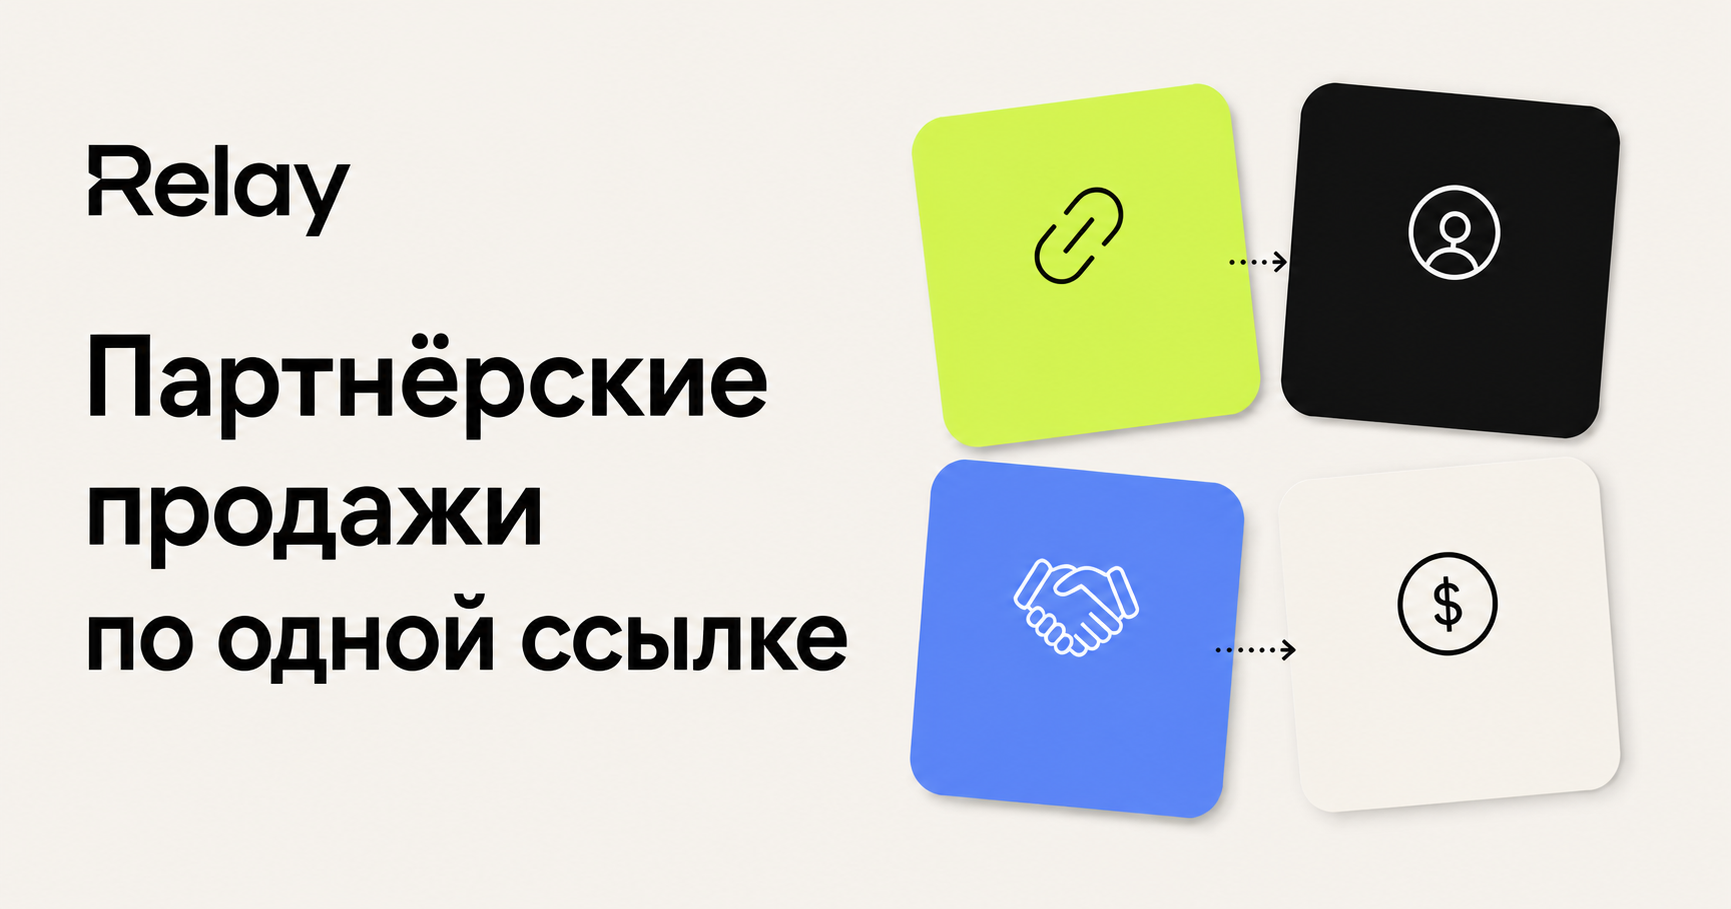
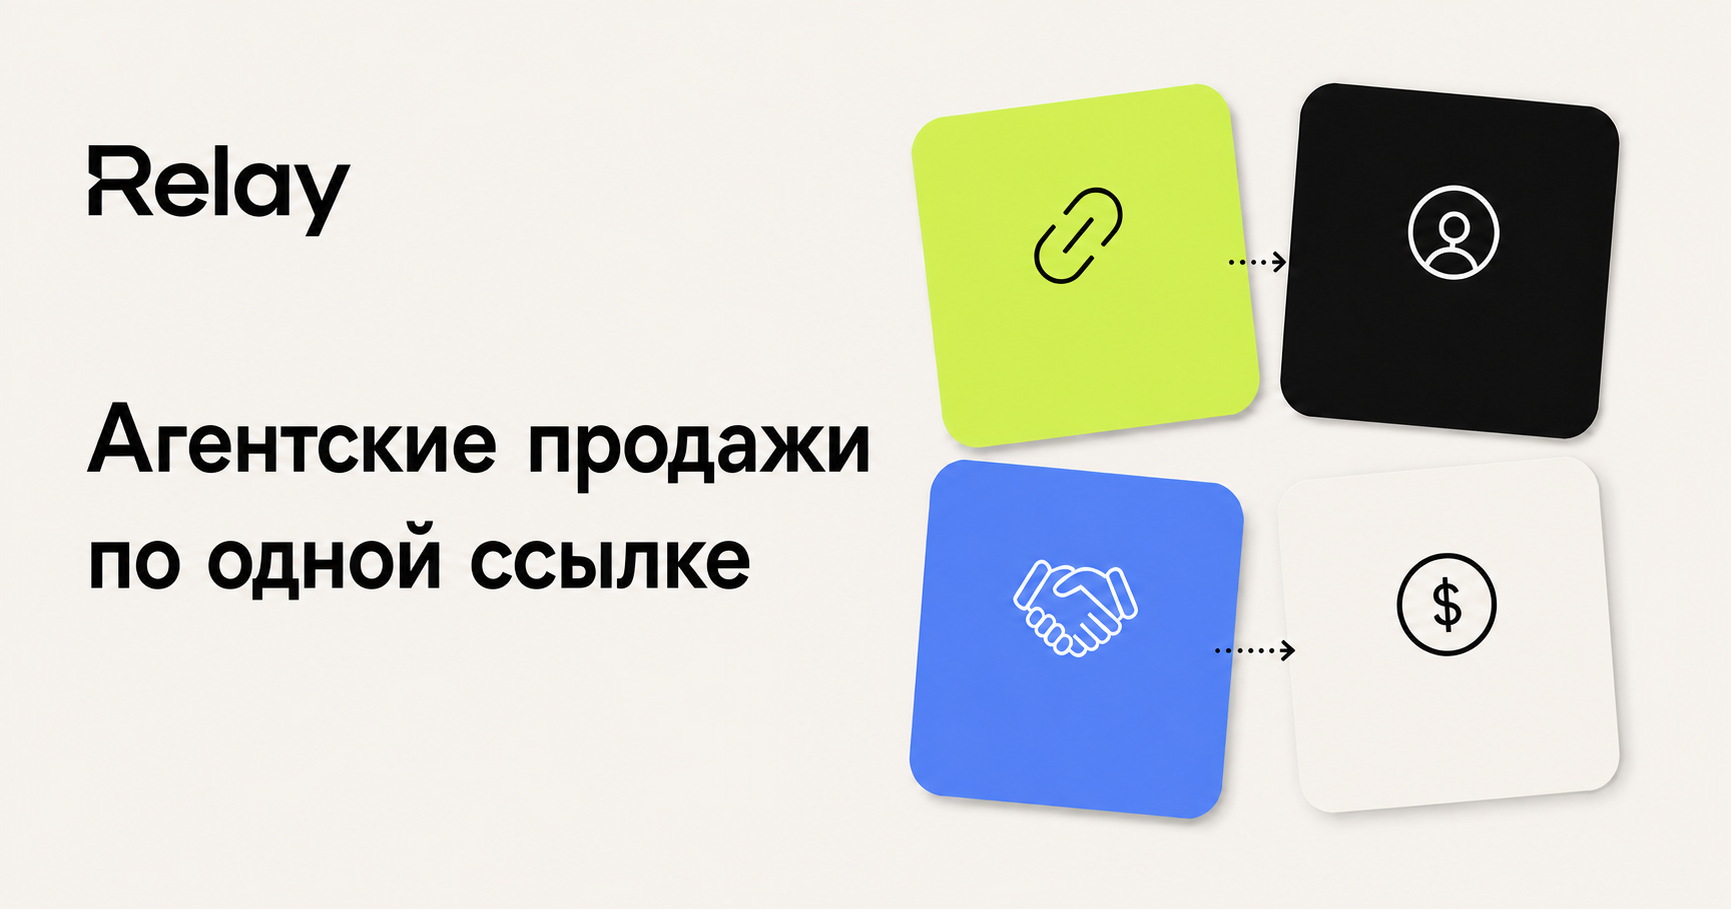
Improve search appearance and indexing

diff --git a/app/layout.tsx b/app/layout.tsx
@@ -1,5 +1,4 @@
 import type { Metadata } from "next";
-import { headers } from "next/headers";
 import { Geist, Geist_Mono } from "next/font/google";
 import "./globals.css";
 import "./landing.css";
@@ -23,43 +22,51 @@ const geistMono = Geist_Mono({
   subsets: ["latin"],
 });
 
-export async function generateMetadata(): Promise<Metadata> {
-  const requestHeaders = await headers();
-  const host = requestHeaders.get("x-forwarded-host") ?? requestHeaders.get("host") ?? "localhost:3000";
-  const protocol = requestHeaders.get("x-forwarded-proto") ?? (host.startsWith("localhost") ? "http" : "https");
-  const origin = `${protocol}://${host}`;
-  const description = "Создавайте агентские программы, запускайте задания и прозрачно работайте с внешними продавцами.";
+const description = "Запускайте агентские программы, приглашайте агентов по одной ссылке и прозрачно ведите рекомендации от передачи до выплаты.";
 
-  return {
-    metadataBase: new URL("https://risestaff.kz"),
-    title: {
-      default: "Relay — агентские продажи по одной ссылке",
-      template: "%s · Relay",
-    },
+export const metadata: Metadata = {
+  metadataBase: new URL("https://risestaff.kz"),
+  applicationName: "Relay",
+  title: {
+    default: "Relay — агентские продажи и реферальные программы",
+    template: "%s · Relay",
+  },
+  description,
+  keywords: ["агентские продажи", "агентская программа", "реферальная программа", "партнёрские продажи", "внешние агенты", "Relay", "RiseStaff"],
+  creator: "Relay",
+  publisher: "Relay",
+  category: "business",
+  robots: {
+    index: true,
+    follow: true,
+    googleBot: { index: true, follow: true, "max-image-preview": "large", "max-snippet": -1, "max-video-preview": -1 },
+  },
+  icons: {
+    icon: [
+      { url: "/icon-192.png", sizes: "192x192", type: "image/png" },
+      { url: "/favicon.svg", sizes: "any", type: "image/svg+xml" },
+    ],
+    shortcut: "/icon-192.png",
+    apple: [{ url: "/apple-touch-icon.png", sizes: "180x180", type: "image/png" }],
+  },
+  manifest: "/manifest.webmanifest",
+  appleWebApp: { capable: true, statusBarStyle: "black-translucent", title: "Relay" },
+  openGraph: {
+    siteName: "Relay",
+    locale: "ru_KZ",
+    title: "Relay — агентские продажи и реферальные программы",
     description,
-    alternates: { canonical: "https://risestaff.kz/" },
-    icons: {
-      icon: [{ url: "/favicon.svg", type: "image/svg+xml" }, { url: "/icon-192.png", sizes: "192x192", type: "image/png" }],
-      shortcut: "/favicon.svg",
-      apple: [{ url: "/apple-touch-icon.png", sizes: "180x180", type: "image/png" }],
-    },
-    manifest: "/manifest.webmanifest",
-    appleWebApp: { capable: true, statusBarStyle: "black-translucent", title: "Relay" },
-    openGraph: {
-      title: "Relay — агентские продажи по одной ссылке",
-      description,
-      type: "website",
-      url: "https://risestaff.kz/",
-      images: [{ url: `${origin}/og.png`, width: 1731, height: 909, alt: "Relay — агентские продажи по одной ссылке" }],
-    },
-    twitter: {
-      card: "summary_large_image",
-      title: "Relay — агентские продажи по одной ссылке",
-      description,
-      images: [`${origin}/og.png`],
-    },
-  };
-}
+    type: "website",
+    url: "https://risestaff.kz/",
+    images: [{ url: "https://risestaff.kz/og.png", width: 1731, height: 909, alt: "Relay — агентские продажи по одной ссылке" }],
+  },
+  twitter: {
+    card: "summary_large_image",
+    title: "Relay — агентские продажи и реферальные программы",
+    description,
+    images: ["https://risestaff.kz/og.png"],
+  },
+};
 
 export default function RootLayout({
   children,

diff --git a/app/page.tsx b/app/page.tsx
@@ -6,8 +6,9 @@ import { MarketingLogo } from "./marketing-logo";
 import { companyUrl } from "../lib/public-origins";
 
 export const metadata: Metadata = {
-  title: "Relay — запустите агентский канал продаж",
-  description: "Создайте программу, пригласите агентов по одной ссылке и прозрачно ведите каждую рекомендацию от передачи до выплаты.",
+  title: { absolute: "Relay — агентские продажи и реферальные программы" },
+  description: "Запустите агентскую программу: создайте задания, пригласите агентов по одной ссылке и отслеживайте каждую рекомендацию до выплаты.",
+  alternates: { canonical: "https://risestaff.kz/" },
 };
 
 export const dynamic = "force-dynamic";
@@ -31,10 +32,25 @@ const faqs = [
 ];
 
 const structuredData = {
-  "@context": "https://schema.org", "@type": "SoftwareApplication", name: "Relay", url: "https://risestaff.kz/",
-  applicationCategory: "BusinessApplication", operatingSystem: "Web",
-  description: "Платформа для запуска и управления агентскими программами по одной ссылке.",
-  featureList: ["Программы и задания для агентов", "Фиксация владельца рекомендации", "Статусы результатов и выплат", "Кабинет агента без установки приложения"],
+  "@context": "https://schema.org",
+  "@graph": [
+    {
+      "@type": "WebSite", "@id": "https://risestaff.kz/#website", url: "https://risestaff.kz/", name: "Relay",
+      alternateName: ["RiseStaff", "Relay by RiseStaff"], inLanguage: "ru-KZ",
+      publisher: { "@id": "https://risestaff.kz/#organization" },
+    },
+    {
+      "@type": "Organization", "@id": "https://risestaff.kz/#organization", name: "Relay", alternateName: "RiseStaff",
+      url: "https://risestaff.kz/", logo: { "@type": "ImageObject", url: "https://risestaff.kz/icon-512.png", width: 512, height: 512 },
+    },
+    {
+      "@type": "SoftwareApplication", "@id": "https://risestaff.kz/#software", name: "Relay", url: "https://risestaff.kz/",
+      applicationCategory: "BusinessApplication", operatingSystem: "Web", inLanguage: "ru-KZ",
+      description: "Платформа для запуска и управления агентскими и реферальными программами по одной ссылке.",
+      featureList: ["Программы и задания для агентов", "Фиксация владельца рекомендации", "Статусы результатов и выплат", "Кабинет агента без установки приложения"],
+      provider: { "@id": "https://risestaff.kz/#organization" },
+    },
+  ],
 };
 
 export default async function Home() {

diff --git a/app/pricing/page.tsx b/app/pricing/page.tsx
@@ -2,7 +2,7 @@ import type { Metadata } from "next";
 import { SafeLink as Link } from "@/app/safe-link";
 import { MarketingLogo } from "../marketing-logo";
 
-export const metadata: Metadata = { title: "Тарифы", description: "Варианты подключения Relay для проверки и масштабирования агентского канала." };
+export const metadata: Metadata = { title: "Тарифы и условия раннего доступа", description: "Условия подключения Relay для запуска и масштабирования агентской программы.", alternates: { canonical: "https://risestaff.kz/pricing" } };
 
 const plans = [
   { code: "01", name: "Старт", label: "ПРОВЕРИТЬ КАНАЛ", text: "Для компании, которая запускает первую агентскую программу и хочет получить первые рекомендации без сложного внедрения.", features: ["Агентские программы и четыре типа заданий", "Публичная ссылка и кабинет агента", "Воронка лидов и история статусов", "Ручная фиксация вознаграждений"] },

diff --git a/app/integrators/page.tsx b/app/integrators/page.tsx
@@ -2,7 +2,7 @@ import type { Metadata } from "next";
 import { SafeLink as Link } from "@/app/safe-link";
 import { MarketingLogo } from "../marketing-logo";
 
-export const metadata: Metadata = { title: "Стать интегратором", description: "Запускайте агентские каналы для клиентов вместе с Relay." };
+export const metadata: Metadata = { title: "Интеграторам агентских программ", description: "Запускайте агентские каналы для клиентов вместе с Relay и зарабатывайте на внедрении и сопровождении.", alternates: { canonical: "https://risestaff.kz/integrators" } };
 const whatsapp = "https://wa.me/77765086000?text=%D0%A0%D1%83%D1%81%20%D0%A1%D0%B0%D0%BB%D0%B5%D0%BC%20%D0%B4%D0%B0%D0%B2%D0%B0%D0%B9%20%D0%BE%D0%B1%D1%81%D1%83%D0%B4%D0%B8%D0%BC%20Relay";
 
 export default function IntegratorsPage() {

diff --git a/app/legal/privacy/page.tsx b/app/legal/privacy/page.tsx
@@ -2,7 +2,7 @@ import type { Metadata } from "next";
 import { SafeLink as Link } from "@/app/safe-link";
 import { MarketingLogo } from "@/app/marketing-logo";
 
-export const metadata: Metadata = { title: "Политика конфиденциальности" };
+export const metadata: Metadata = { title: "Политика конфиденциальности", description: "Как Relay обрабатывает и защищает данные компаний и агентов.", alternates: { canonical: "https://risestaff.kz/legal/privacy" } };
 
 export default function PrivacyPage() {
   return <main className="legal-page"><article className="legal-document">

diff --git a/app/legal/license/page.tsx b/app/legal/license/page.tsx
@@ -2,7 +2,7 @@ import type { Metadata } from "next";
 import { SafeLink as Link } from "@/app/safe-link";
 import { MarketingLogo } from "@/app/marketing-logo";
 
-export const metadata: Metadata = { title: "Лицензионное соглашение" };
+export const metadata: Metadata = { title: "Лицензионное соглашение", description: "Условия использования платформы Relay компаниями и агентами.", alternates: { canonical: "https://risestaff.kz/legal/license" } };
 
 export default function LicensePage() {
   return <main className="legal-page"><article className="legal-document">

diff --git a/app/dashboard/layout.tsx b/app/dashboard/layout.tsx
@@ -1,3 +1,4 @@
+import type { Metadata } from "next";
 import { redirect } from "next/navigation";
 import { SafeLink as Link } from "@/app/safe-link";
 import { chatGPTSignOutPath, requireChatGPTUser } from "../chatgpt-auth";
@@ -7,6 +8,7 @@ import { DashboardTour } from "./_components/dashboard-tour";
 import { AccountMenu } from "./_components/account-menu";
 
 export const dynamic = "force-dynamic";
+export const metadata: Metadata = { robots: { index: false, follow: false } };
 
 function initials(value: string) {
   return value.split(/\s+/).slice(0, 2).map((part) => part[0]?.toUpperCase()).join("") || "R";

diff --git a/app/sitemap.ts b/app/sitemap.ts
@@ -1,10 +1,10 @@
 import type { MetadataRoute } from "next";
 
 export default function sitemap(): MetadataRoute.Sitemap {
-  const now = new Date();
+  const lastModified = new Date("2026-08-19T00:00:00.000Z");
   return ["", "/pricing", "/integrators", "/legal/privacy", "/legal/license"].map((path, index) => ({
     url: `https://risestaff.kz${path || "/"}`,
-    lastModified: now,
+    lastModified,
     changeFrequency: index === 0 ? "weekly" as const : "monthly" as const,
     priority: index === 0 ? 1 : 0.6,
   }));

diff --git a/app/robots.ts b/app/robots.ts
@@ -1,5 +1,8 @@
 import type { MetadataRoute } from "next";
 
 export default function robots(): MetadataRoute.Robots {
-  return { rules: { userAgent: "*", allow: "/", disallow: ["/api/", "/dashboard/", "/system/"] }, sitemap: "https://risestaff.kz/sitemap.xml", host: "https://risestaff.kz" };
+  return {
+    rules: { userAgent: "*", allow: ["/", "/icon-192.png", "/icon-512.png", "/favicon.svg", "/og.png"], disallow: ["/api/"] },
+    sitemap: "https://risestaff.kz/sitemap.xml",
+  };
 }

diff --git a/app/onboarding/page.tsx b/app/onboarding/page.tsx
@@ -6,7 +6,7 @@ import { getCompanyForUser } from "../../db/company";
 import { CompanyRegistrationForm } from "./registration-form";
 import { marketingUrl } from "../../lib/public-origins";
 
-export const metadata: Metadata = { title: "Создание компании" };
+export const metadata: Metadata = { title: "Создание компании", robots: { index: false, follow: false } };
 export const dynamic = "force-dynamic";
 
 export default async function OnboardingPage() {

diff --git a/app/auth/page.tsx b/app/auth/page.tsx
@@ -3,7 +3,7 @@ import { redirect } from "next/navigation";
 import { getAccountUser } from "../../lib/account-auth";
 import { AuthFlow } from "./auth-flow";
 
-export const metadata: Metadata = { title: "Вход в Relay" };
+export const metadata: Metadata = { title: "Вход в Relay", robots: { index: false, follow: false } };
 export const dynamic = "force-dynamic";
 
 export default async function AuthPage({ searchParams }: { searchParams: Promise<{ returnTo?: string }> }) {
